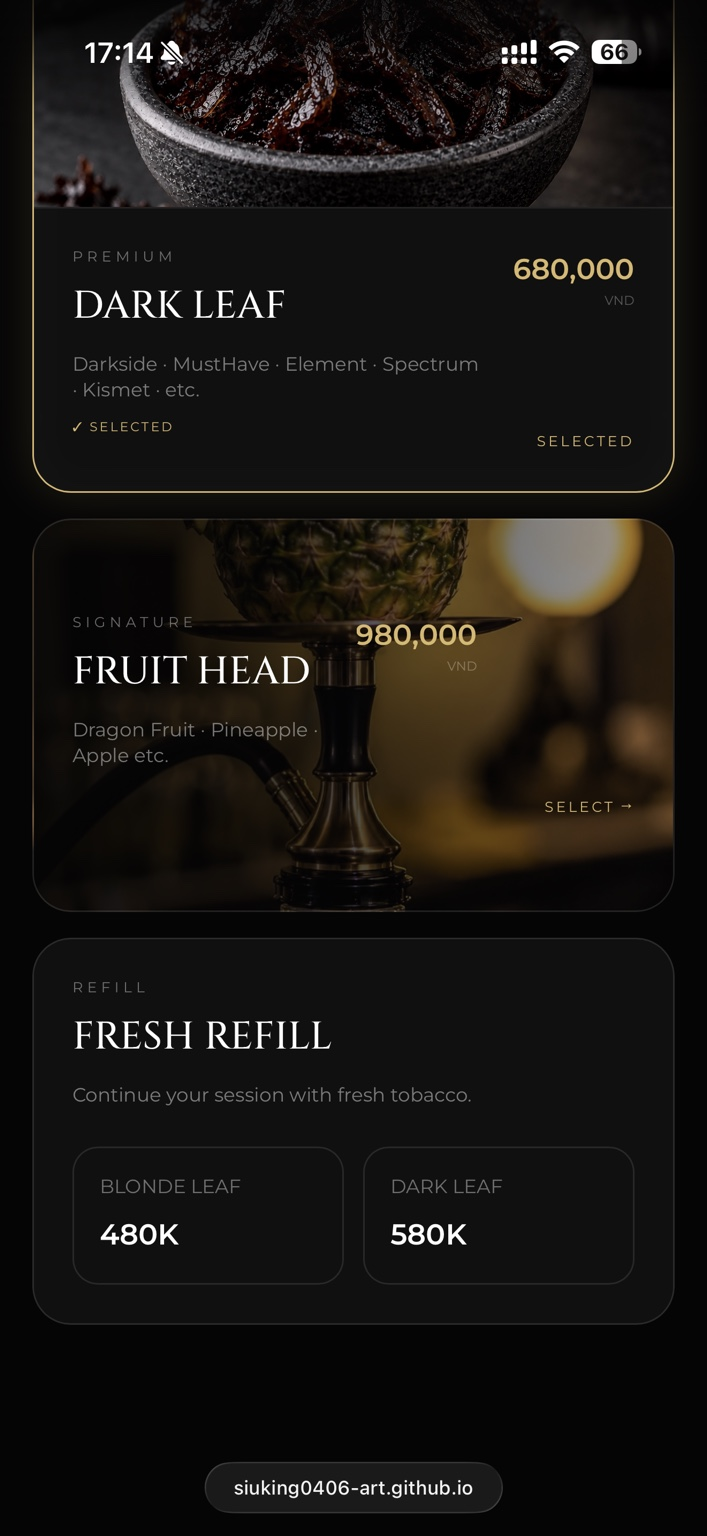
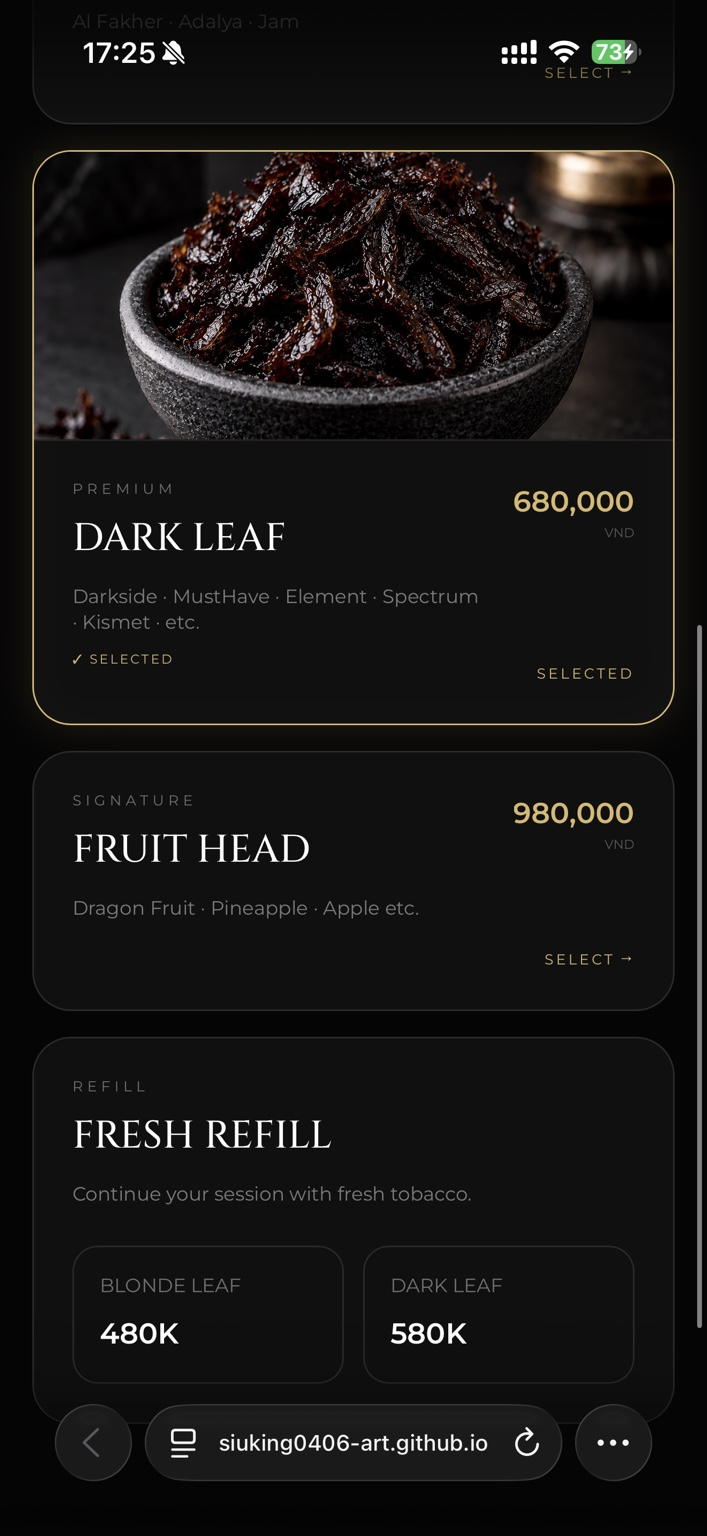
Add files via upload

diff --git a/hansum.html b/hansum.html
@@ -47,7 +47,7 @@ button{font-family:inherit;cursor:pointer}
     .bowl-caption span{font-size:9px;letter-spacing:.28em;color:rgba(255,255,255,.48)}
     .bowl-caption strong{font-family:Georgia,serif;font-size:21px;font-weight:400;letter-spacing:.04em;color:#f5f1e8}
     @media(max-width:640px){.bowl-caption{padding:13px 16px 15px}.bowl-caption strong{font-size:19px}}
-</style>
+ .fruit-head-image{width:100%;height:auto!important;max-height:none;object-fit:contain;object-position:center top;display:block;background:#080706;border-bottom:1px solid rgba(255,255,255,.08)}</style>
 </head>
 <body>
 <div id="app" v-cloak class="min-h-screen">
@@ -146,6 +146,7 @@ button{font-family:inherit;cursor:pointer}
 
     <button @click="selectShisha('Fruit Head','Fresh Fruit',980000,true)"
       class="glass rounded-3xl p-6 w-full text-left card fruit-head-card" :class="{selected:order.shishaType==='Fruit Head'}">
+      <img src="images/fruit-head.jpeg" alt="Fruit Head shisha" class="shisha-product-image fruit-head-image">
       <div class="flex justify-between gap-4 fruit-copy">
         <div class="min-w-0">
           <div class="text-[9px] tracking-[.3em] text-white/40">SIGNATURE</div>

diff --git a/hansum-saigon.html b/hansum-saigon.html
@@ -41,7 +41,7 @@ button{font-family:inherit;cursor:pointer}
 .fruit-head-image{height:300px;object-position:center top;}
 @media(max-width:640px){.fruit-head-image{height:300px;object-position:center top}}
 @media(max-width:640px){.shisha-product-image{height:180px}}
-</style>
+ .fruit-head-image{width:100%;height:auto!important;max-height:none;object-fit:contain;object-position:center top;display:block;background:#080706;border-bottom:1px solid rgba(255,255,255,.08)}</style>
 </head>
 <body>
 <div id="app" v-cloak class="min-h-screen">
